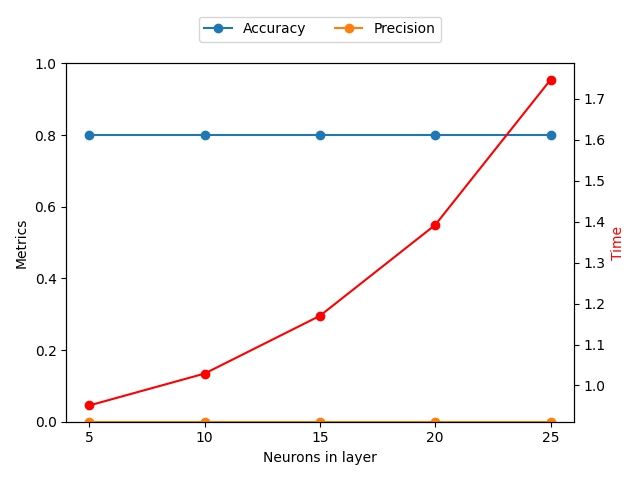
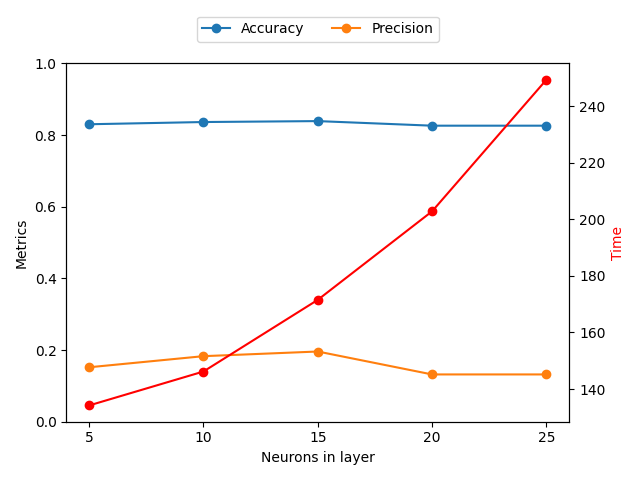
add plots

diff --git a/NeuralNetwork/src/testing.py b/NeuralNetwork/src/testing.py
@@ -10,7 +10,7 @@ import seaborn as sns
 
 import matplotlib.pyplot as plt
 
-DATA_PERCENTAGE = 0.02
+DATA_PERCENTAGE = 10
 
 # TODO:
 # data analysis
@@ -140,7 +140,7 @@ def plot(dict):
     for key in dict:
         if isinstance(dict[key], list):
             changing_parameter = key
-            changing_parameter_values = dict[key]
+            changing_parameter_values = [round(i, 2) for i in dict[key]]
             values_number = len(dict[key])
     for key in dict:
         if key != changing_parameter:
@@ -180,9 +180,9 @@ def plot(dict):
         ax1.set_xlabel('Hidden layers')
     elif changing_parameter == 'neurons_in_layer_number':
         ax1.set_xlabel('Neurons in layer')
-    elif changing_parameter == 'epochs number':
+    elif changing_parameter == 'epochs_number':
         ax1.set_xlabel('Epochs')
-    elif changing_parameter == 'learning rate':
+    elif changing_parameter == 'learning_rate':
         ax1.set_xlabel('Learning rate')
 
     for metric in metrics_list[0]:
@@ -251,38 +251,42 @@ if __name__ == "__main__":
 
     # quit()
 
+    # plot(
+    #     {
+    #         'hidden_layers_number': 2,
+    #         'neurons_in_layer_number': list(range(5,30,5)),
+    #         'epochs_number': 10,
+    #         'learning_rate': 0.1
+    #     }
+    # )
+    # biore 15
+    
+    # plot(
+    #     {
+    #         'hidden_layers_number': list(range(1, 6, 1)),
+    #         'neurons_in_layer_number': 15,
+    #         'epochs_number': 10,
+    #         'learning_rate': 0.1
+    #     }
+    # )
+    # biore 2
+    
+    # plot(
+    #     {
+    #         'hidden_layers_number': 2,
+    #         'neurons_in_layer_number': 15,
+    #         'epochs_number': list(range(1, 51, 5)),
+    #         'learning_rate': 0.1
+    #     }
+    # )
+    # biore 10
+    
     plot(
         {
             'hidden_layers_number': 2,
-            'neurons_in_layer_number': list(range(5, 30, 5)),
+            'neurons_in_layer_number': 15,
             'epochs_number': 10,
-            'learning_rate': 1
+            'learning_rate': np.arange(0.01, 0.52, 0.1).tolist()
         }
     )
-
-    plot(
-        {
-            'hidden_layers_number': list(range(1, 5, 1)),
-            'neurons_in_layer_number': 10,
-            'epochs_number': 10,
-            'learning_rate': 1
-        }
-    )
-
-    plot(
-        {
-            'hidden_layers_number': 2,
-            'neurons_in_layer_number': 10,
-            'epochs_number': list(range(1, 20, 1)),
-            'learning_rate': 1
-        }
-    )
-
-    plot(
-        {
-            'hidden_layers_number': 2,
-            'neurons_in_layer_number': 10,
-            'epochs_number': 10,
-            'learning_rate': np.arange(0.5, 5.5, 0.5).tolist()
-        }
-    )
+    # biore 
